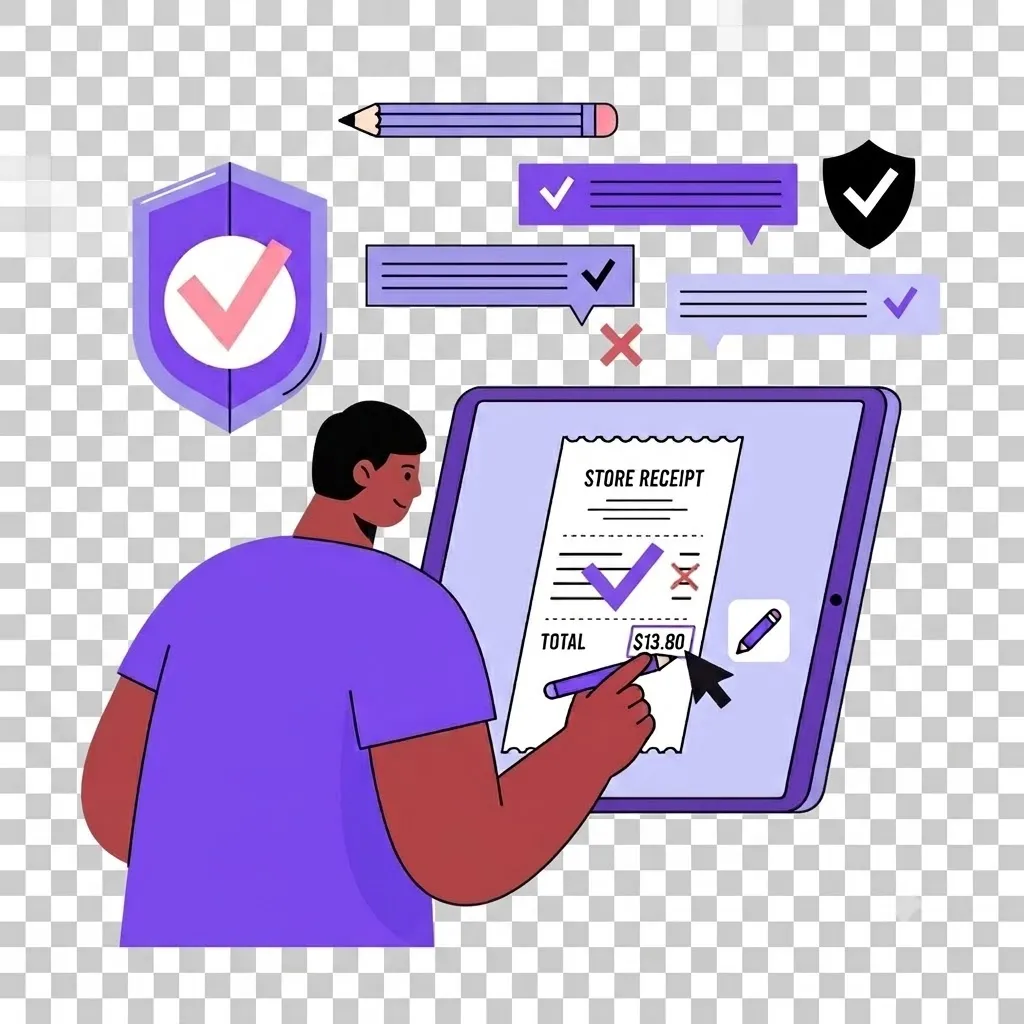
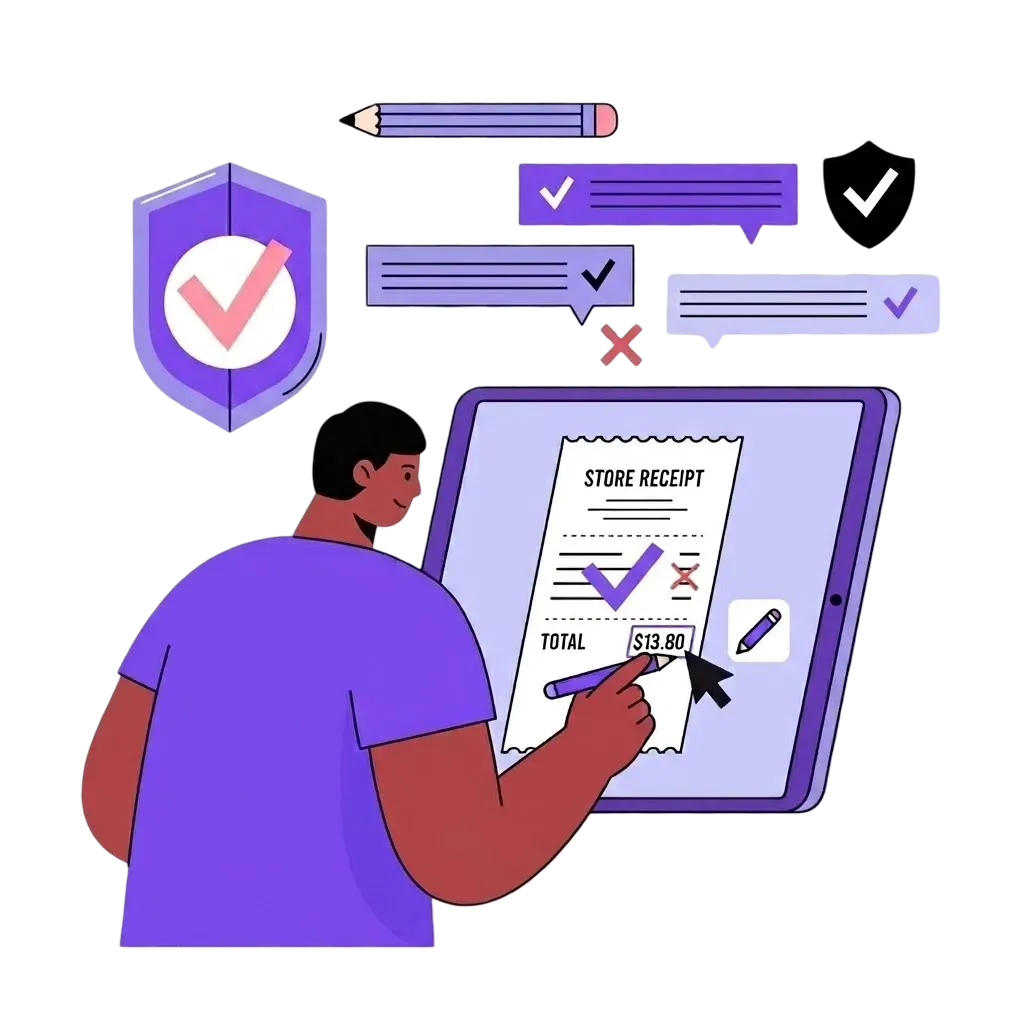
created ImageCards with the desired graphics.  Now add them to a carousel

Changed region(s): [[0.0, 0.0, 1.0, 1.0]]

diff --git a/lib/features/home/home_page.dart b/lib/features/home/home_page.dart
@@ -7,6 +7,7 @@ import 'package:tab_settle/core/routing/router.dart';
 import 'package:tab_settle/features/bill_analyse/data/text_receipts.dart';
 import 'package:tab_settle/features/bill_analyse/service/gemini_service.dart';
 import 'package:tab_settle/features/bill_analyse/service/generative_model_provider.dart';
+import 'package:tab_settle/features/home/image_card.dart';
 
 class HomePage extends HookConsumerWidget with UiLoggy {
   const HomePage({super.key});
@@ -18,93 +19,128 @@ class HomePage extends HookConsumerWidget with UiLoggy {
     final Future<List<dynamic>> modelsData = models.listAvailableModels(
       ref.watch(geminiApiKeyProvider),
     );
+
+    final cardHeight = 250.0;
+
     // final json = ref.watch(geminiServiceProvider).listAvailableModels(apiKey);
 
     // loggy.debug('Available models: $json');
 
     return Scaffold(
-      appBar: AppBar(title: const Text('Tab Settle'), centerTitle: true),
+      // appBar: AppBar(title: const Text('Tab Settle'), centerTitle: true),
       body: SingleChildScrollView(
-        child: Column(
-          crossAxisAlignment: CrossAxisAlignment.stretch,
-          mainAxisAlignment: MainAxisAlignment.center,
-          spacing: 28.0,
-          children: [
-            Icon(
-              Icons.rocket_launch_rounded,
-              size: 64,
-              color: Theme.of(context).colorScheme.primary,
-            ),
-            Text(
-              'Welcome to Tab Settle',
-              style: Theme.of(context).textTheme.headlineSmall,
-            ),
+        child: Padding(
+          padding: const EdgeInsets.all(8.0),
+          child: Column(
+            crossAxisAlignment: CrossAxisAlignment.stretch,
+            mainAxisAlignment: MainAxisAlignment.center,
+            spacing: 28.0,
+            children: [
+              // Icon(
+              //   Icons.rocket_launch_rounded,
+              //   size: 64,
+              //   color: Theme.of(context).colorScheme.primary,
+              // ),
+              // Text(
+              //   'Welcome to Tab Settle',
+              //   style: Theme.of(context).textTheme.headlineSmall,
+              // ),
+              ImageCard(
+                title: 'Scan Receipt',
+                description:
+                    'Take a picture '
+                    'of the receipt and I will break it down for you to check',
+                imageName: 'scan.webp',
+                imageHeight: cardHeight,
+              ),
 
-            ...List.generate(imageAssetReceipts.length, (i) {
-              final path = imageAssetReceipts[i]['path'];
-              final label = imageAssetReceipts[i]['name'];
-              return ActionButton(
-                label: label!,
-                onPressed: () {
-                  loggy.debug('Receipt $path');
-                  context.pushNamed(AppRoute.addReceipt.name, extra: path);
-                },
-              );
-            }),
-            if (false)
-              ...List.generate(mockReceipts.length, (i) {
-                final receipt = mockReceipts[i];
+              ImageCard(
+                title: 'Check and Correct',
+                description:
+                    'This is normally pretty good, but just in case check and '
+                    'correct',
+                imageName: 'check.webp',
+                imageHeight: cardHeight,
+              ),
+
+              ImageCard(
+                title: 'Push it!',
+                description:
+                    'Its ready to share - let your guests claim their items',
+                imageName: 'share-bill.webp',
+                imageHeight: cardHeight,
+              ),
+
+              ...List.generate(imageAssetReceipts.length, (i) {
+                final path = imageAssetReceipts[i]['path'];
+                final label = imageAssetReceipts[i]['name'];
                 return ActionButton(
-                  label: receipt['name'] ?? 'Not found',
-                  onPressed: () => context.pushNamed(
-                    AppRoute.addReceipt.name,
-                    extra: receipt['receipt'] ?? '',
-                  ),
+                  label: label!,
+                  onPressed: () {
+                    loggy.debug('Receipt $path');
+                    context.pushNamed(AppRoute.addReceipt.name, extra: path);
+                  },
                 );
               }),
-            if (false) Text('Models'),
-            if (false)
-              FutureBuilder(
-                future: modelsData,
-                builder: (_, snapshot) {
-                  return snapshot.hasData
-                      ? Padding(
-                          padding: const EdgeInsets.symmetric(horizontal: 30.0),
-                          child: Wrap(
-                            spacing: 13.0,
-                            runSpacing: 13.0,
+              if (false)
+                ...List.generate(mockReceipts.length, (i) {
+                  final receipt = mockReceipts[i];
+                  return ActionButton(
+                    label: receipt['name'] ?? 'Not found',
+                    onPressed: () => context.pushNamed(
+                      AppRoute.addReceipt.name,
+                      extra: receipt['receipt'] ?? '',
+                    ),
+                  );
+                }),
+              if (false) Text('Models'),
+              if (false)
+                FutureBuilder(
+                  future: modelsData,
+                  builder: (_, snapshot) {
+                    return snapshot.hasData
+                        ? Padding(
+                            padding: const EdgeInsets.symmetric(
+                              horizontal: 30.0,
+                            ),
+                            child: Wrap(
+                              spacing: 13.0,
+                              runSpacing: 13.0,
 
-                            children: List.generate(snapshot.data!.length, (i) {
-                              final sorted = snapshot.data!.sort();
-                              return Container(
-                                padding: EdgeInsetsGeometry.all(12.0),
-                                decoration: BoxDecoration(
-                                  borderRadius: BorderRadius.circular(18.0),
-                                  border: Border.all(
-                                    color: Theme.of(
-                                      context,
-                                    ).colorScheme.onSurface,
+                              children: List.generate(snapshot.data!.length, (
+                                i,
+                              ) {
+                                final sorted = snapshot.data!.sort();
+                                return Container(
+                                  padding: EdgeInsetsGeometry.all(12.0),
+                                  decoration: BoxDecoration(
+                                    borderRadius: BorderRadius.circular(18.0),
+                                    border: Border.all(
+                                      color: Theme.of(
+                                        context,
+                                      ).colorScheme.onSurface,
+                                    ),
                                   ),
-                                ),
-                                child: Text(snapshot.data![i]),
-                              );
-                            }),
-                          ),
-                        )
-                      : CircularProgressIndicator();
-                },
+                                  child: Text(snapshot.data![i]),
+                                );
+                              }),
+                            ),
+                          )
+                        : CircularProgressIndicator();
+                  },
 
-                //   return Wrap(
-                //     children: snapshot.hasData
-                //         // ? List.generate(snapshot.data!.length, (i) {
-                //         ? List.generate(snapshot.data!.length, (i) {
-                //             return Text(snapshot.data![i]);
-                //           })
-                //         : [Text('No Models')],
-                //   );
-                // },
-              ),
-          ],
+                  //   return Wrap(
+                  //     children: snapshot.hasData
+                  //         // ? List.generate(snapshot.data!.length, (i) {
+                  //         ? List.generate(snapshot.data!.length, (i) {
+                  //             return Text(snapshot.data![i]);
+                  //           })
+                  //         : [Text('No Models')],
+                  //   );
+                  // },
+                ),
+            ],
+          ),
         ),
       ),
     );

diff --git a/lib/features/home/image_card.dart b/lib/features/home/image_card.dart
@@ -1,0 +1,49 @@
+import 'package:flutter/material.dart';
+
+class ImageCard extends StatelessWidget {
+  const ImageCard({
+    required this.title,
+    required this.imageName,
+    this.description = '',
+    this.imageHeight = 220.0,
+    super.key,
+  });
+
+  final String title;
+  final String description;
+  final double imageHeight;
+  final String imageName;
+
+  @override
+  Widget build(BuildContext context) {
+    final imagePath = 'assets/graphics/$imageName';
+
+    final theme = Theme.of(context);
+    return Card(
+      elevation: 2.0,
+      shape: RoundedRectangleBorder(borderRadius: BorderRadius.circular(16)),
+      child: Padding(
+        padding: EdgeInsetsGeometry.symmetric(horizontal: 20.0, vertical: 24.0),
+        child: Column(
+          spacing: 10.0,
+          mainAxisSize: MainAxisSize.min,
+          crossAxisAlignment: CrossAxisAlignment.center,
+          children: [
+            Text(
+              title,
+              textAlign: TextAlign.center,
+              style: theme.textTheme.headlineSmall,
+            ),
+            SizedBox(
+              height: imageHeight,
+
+              width: imageHeight,
+              child: Image.asset(imagePath, fit: BoxFit.contain),
+            ),
+            Text(description, textAlign: TextAlign.center),
+          ],
+        ),
+      ),
+    );
+  }
+}

diff --git a/assets/graphics/readme.md b/assets/graphics/readme.md
@@ -31,5 +31,11 @@ Homebrew:
 
 ```bash
 brew install webp
+````
 
+```bash
 for file in *.jpeg; do cwebp -q 80 "$file" -o "${file%.*}.webp"; done
+```
+
+https://www.iloveimg.com/
+https://www.pixelcut.ai/ai-image-editor?tool=removeBackground
